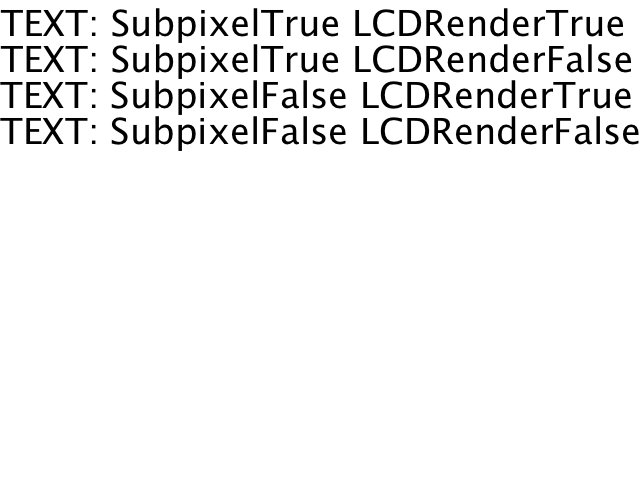
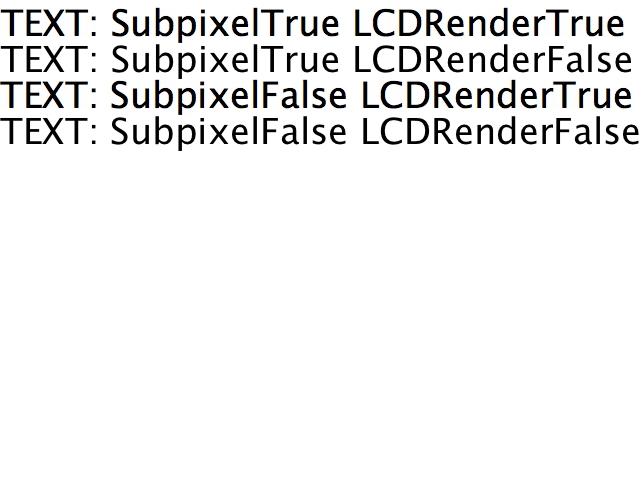
disable auto-detection of non-opaque devices for LCD for now

diff --git a/src/core/SkDevice.cpp b/src/core/SkDevice.cpp
@@ -225,7 +225,7 @@ bool SkDevice::filterTextFlags(const SkPaint& paint, TextFlags* flags) {
     }
 
     if (SkBitmap::kARGB_8888_Config != fBitmap.config() ||
-        !fBitmap.isOpaque() ||
+//        !fBitmap.isOpaque() ||
         paint.getShader() ||
         paint.getXfermode() || // unless its srcover
         paint.getMaskFilter() ||
